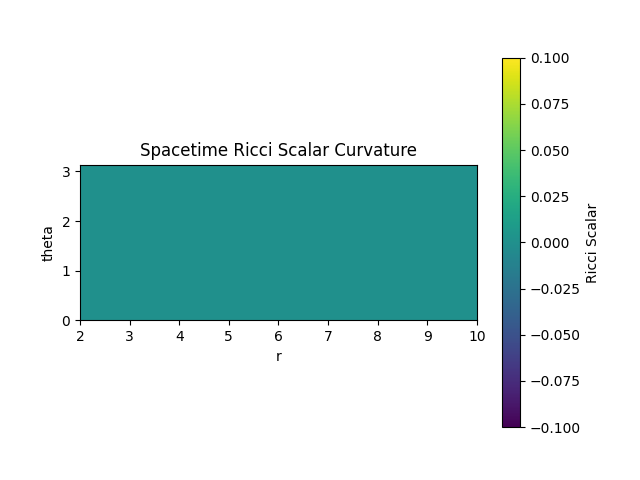
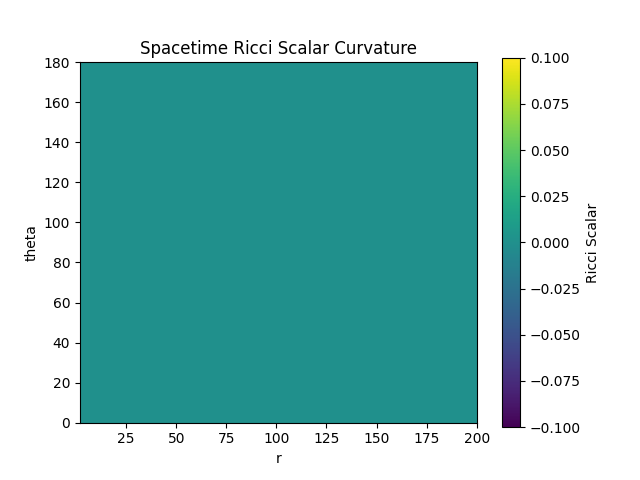
Update Ricci scalar plot ranges in visualization sample
Expanded the x_range to (2, 200) and y_range to (0, 180) in the Einstein field equations visualization sample for improved coverage. Updated the corresponding Ricci scalar image to reflect these changes.

diff --git a/spacetimeengine/samples/einstein_field_equations_visualization.py b/spacetimeengine/samples/einstein_field_equations_visualization.py
@@ -8,7 +8,7 @@ def main():
 
     # Plot Ricci scalar curvature for Schwarzschild spacetime
     # Adjust x_range and y_range as needed for your coordinates
-    blackhole_spacetime.plot_ricci_scalar_grid(x_range=(2, 10), y_range=(0, 3.14), x_index=1, y_index=2, num_points=100)
+    blackhole_spacetime.plot_ricci_scalar_grid(x_range=(2, 200), y_range=(0, 180), x_index=1, y_index=2, num_points=100)
 
 if __name__ == "__main__":
     main()
